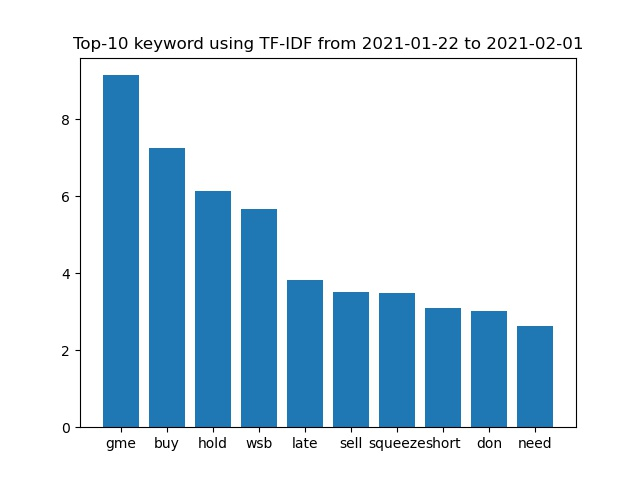
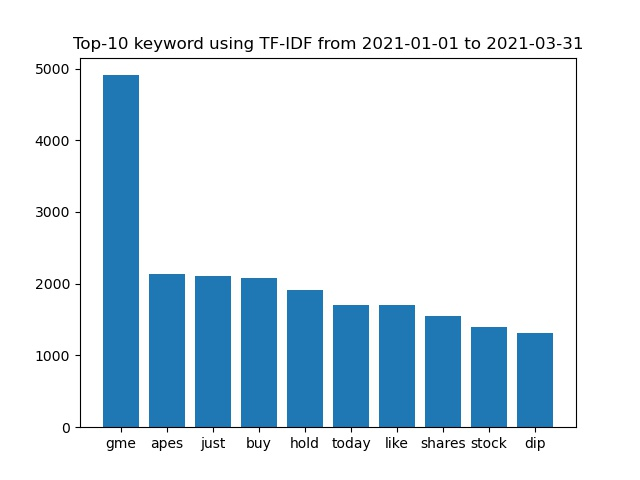
bug fix

diff --git a/stock_prediction.py b/stock_prediction.py
@@ -38,11 +38,11 @@ def model():
         
             sentiment = row['Sentiment']
             sentiment = sentiment.strip("[]")
-            print(sentiment.split(', '))
+            #print(sentiment.split(', '))
             for i in sentiment.split(', '):
                 # if (i.isdigit()):
                     feature.append(float(i))
-            print(feature)
+            #print(feature)
 
             X.append(feature)
             y.append(int(row['Label']))
@@ -59,14 +59,16 @@ def model():
         #     knn = neighbors.KNeighborsClassifier(n_neighbors=i+1)
         #     print('KNN score: %f' % knn.fit(X_train, y_train).score(X_test, y_test) + ' n = ' + str(i+1))
 
-        knn = neighbors.KNeighborsClassifier(n_neighbors=12)
-        print('KNN score: %f' % knn.fit(X_train, y_train).score(X_test, y_test) + ' n = 12')
+        print("--------------Prediction scores using all features--------------------")
 
         lr = LogisticRegression(random_state=30)
-        print('Linear regression score: %f' % lr.fit(X_train, y_train).score(X_test, y_test))
+        print(str(lr) + ' score: %f' % lr.fit(X_train, y_train).score(X_test, y_test))
         
         rfc = RandomForestClassifier(random_state=30)
-        print('Random Forest score: %f' % rfc.fit(X_train, y_train).score(X_test, y_test))
+        print(str(rfc) + ' score: %f' % rfc.fit(X_train, y_train).score(X_test, y_test))
+
+        knn = neighbors.KNeighborsClassifier(n_neighbors=12)
+        print(str(knn) + ' score: %f' % knn.fit(X_train, y_train).score(X_test, y_test))
         
         # svm_clf = svm.SVC()
         # print('SVM score: %f' % svm_clf.fit(X_train, y_train).score(X_test, y_test))
@@ -91,22 +93,43 @@ def model():
         plt.savefig("img/knn_cm.jpg")
         plt.close()
 
-        #knn = neighbors.KNeighborsClassifier(n_neighbors=11)
         #eval(knn, X, y), knn is not suitable for SelectFromModel
+        print("--------------Prediction scores after feature selection---------------")
         eval(lr, X, y)
         eval(rfc, X, y)
+
+        # Knn cannot use the SelectFromModel in the eval() function
+        X = SelectKBest(k=10).fit_transform(X, y)
+        X_train, X_test, y_train, y_test = train_test_split(X, y, test_size=0.2, random_state=30)
+        print(str(knn) + ' score: %f' % knn.fit(X_train, y_train).score(X_test, y_test))
+        plt.figure()
+        plot_roc_curve(knn, X_test, y_test)
+        plt.title(str(knn).split("(")[0] + " ROC")
+        plt.savefig("img/" + str(knn) + "_roc.jpg")
+        plt.close()
+        cm(knn, X_test, y_test)
 
 def eval(clf, X, y):
     model = SelectFromModel(clf, prefit=True)
     X = model.transform(X)
-    print(X)
+    #print(X)
     X_train, X_test, y_train, y_test = train_test_split(X, y, test_size=0.2, random_state=30)
     # score = cross_val_score(clf, X, y, cv=5)
     print(str(clf) + ' score: %f' % clf.fit(X_train, y_train).score(X_test, y_test))
     plt.figure()
     plot_roc_curve(clf, X_test, y_test)
-    plt.title(str(clf) + " ROC")
+    plt.title(str(clf).split("(")[0] + " ROC")
     plt.savefig("img/" + str(clf) + "_roc.jpg")
+    plt.close()
+    cm(clf, X_test, y_test)
+
+
+def cm(clf, X_test, y_test):
+    plt.figure()
+    plot_confusion_matrix(clf, X_test, y_test)  
+    # plt.show()
+    plt.title(str(clf).split("(")[0] + " Confusion Matrix")
+    plt.savefig("img/" + str(clf) + "_cm.jpg")
     plt.close()
 
 

diff --git a/data_preparation.py b/data_preparation.py
@@ -122,7 +122,7 @@ def keyword_count():
      print(counts_tf.sort_values(ascending=False).head(20))
 
 def keyword_plot(date_start, date_end, n):
-   with open(TEST_REDDIT_DATA_PATH, newline='', encoding='utf-8') as csvfile:
+   with open(RAW_REDDIT_DATA_PATH, newline='', encoding='utf-8') as csvfile:
      reader = csv.DictReader(csvfile)
      corpus = []
      dt_start = dt.strptime(date_start, '%Y-%m-%d')
@@ -223,7 +223,7 @@ def data_integration():
 
     
 def main():
-    keyword_plot("2021-01-22", "2021-02-01", 10)
+    keyword_plot("2021-01-01", "2021-03-31", 10)
     #reddit_feature_extraction()
     #stock_preparation()
     #data_integration()
